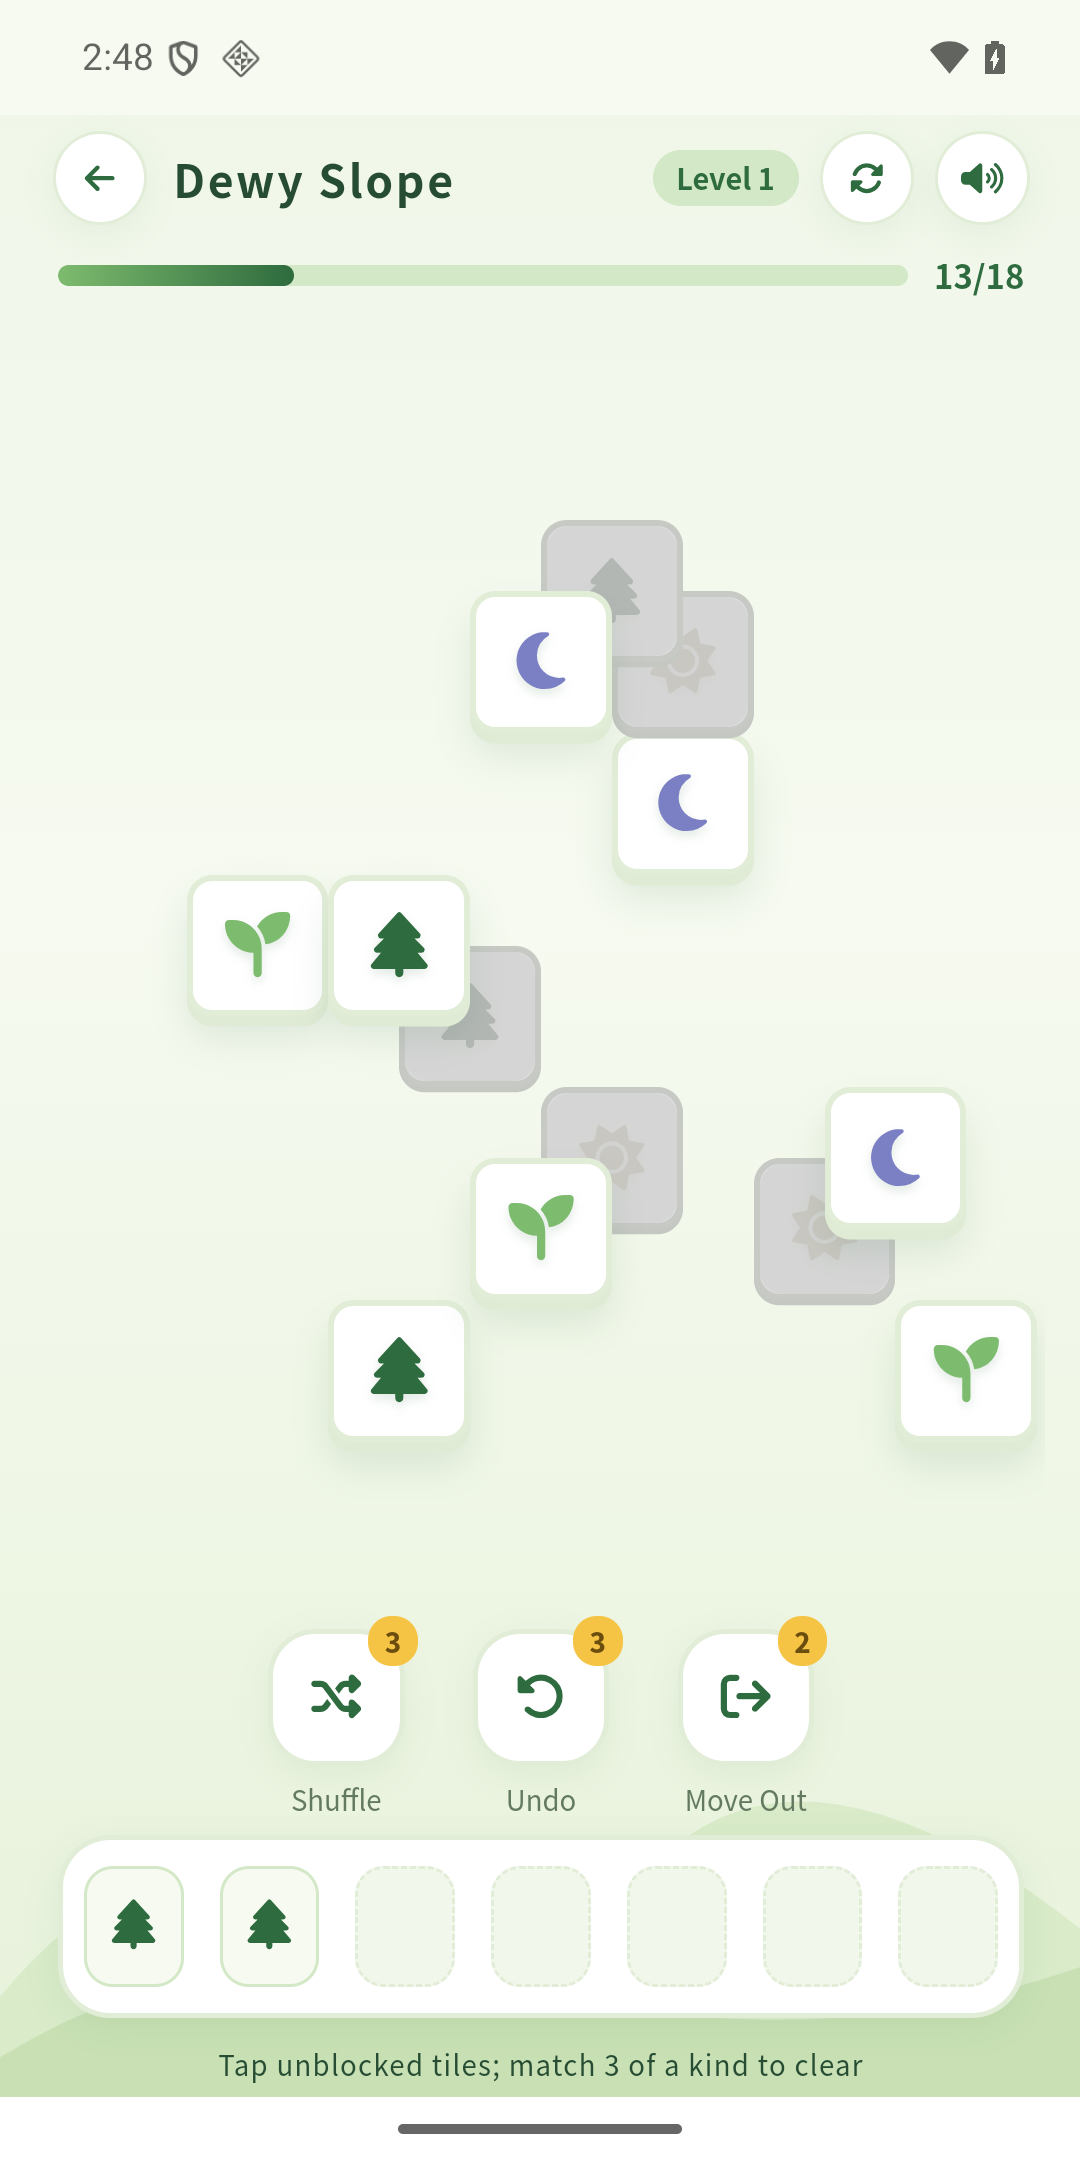
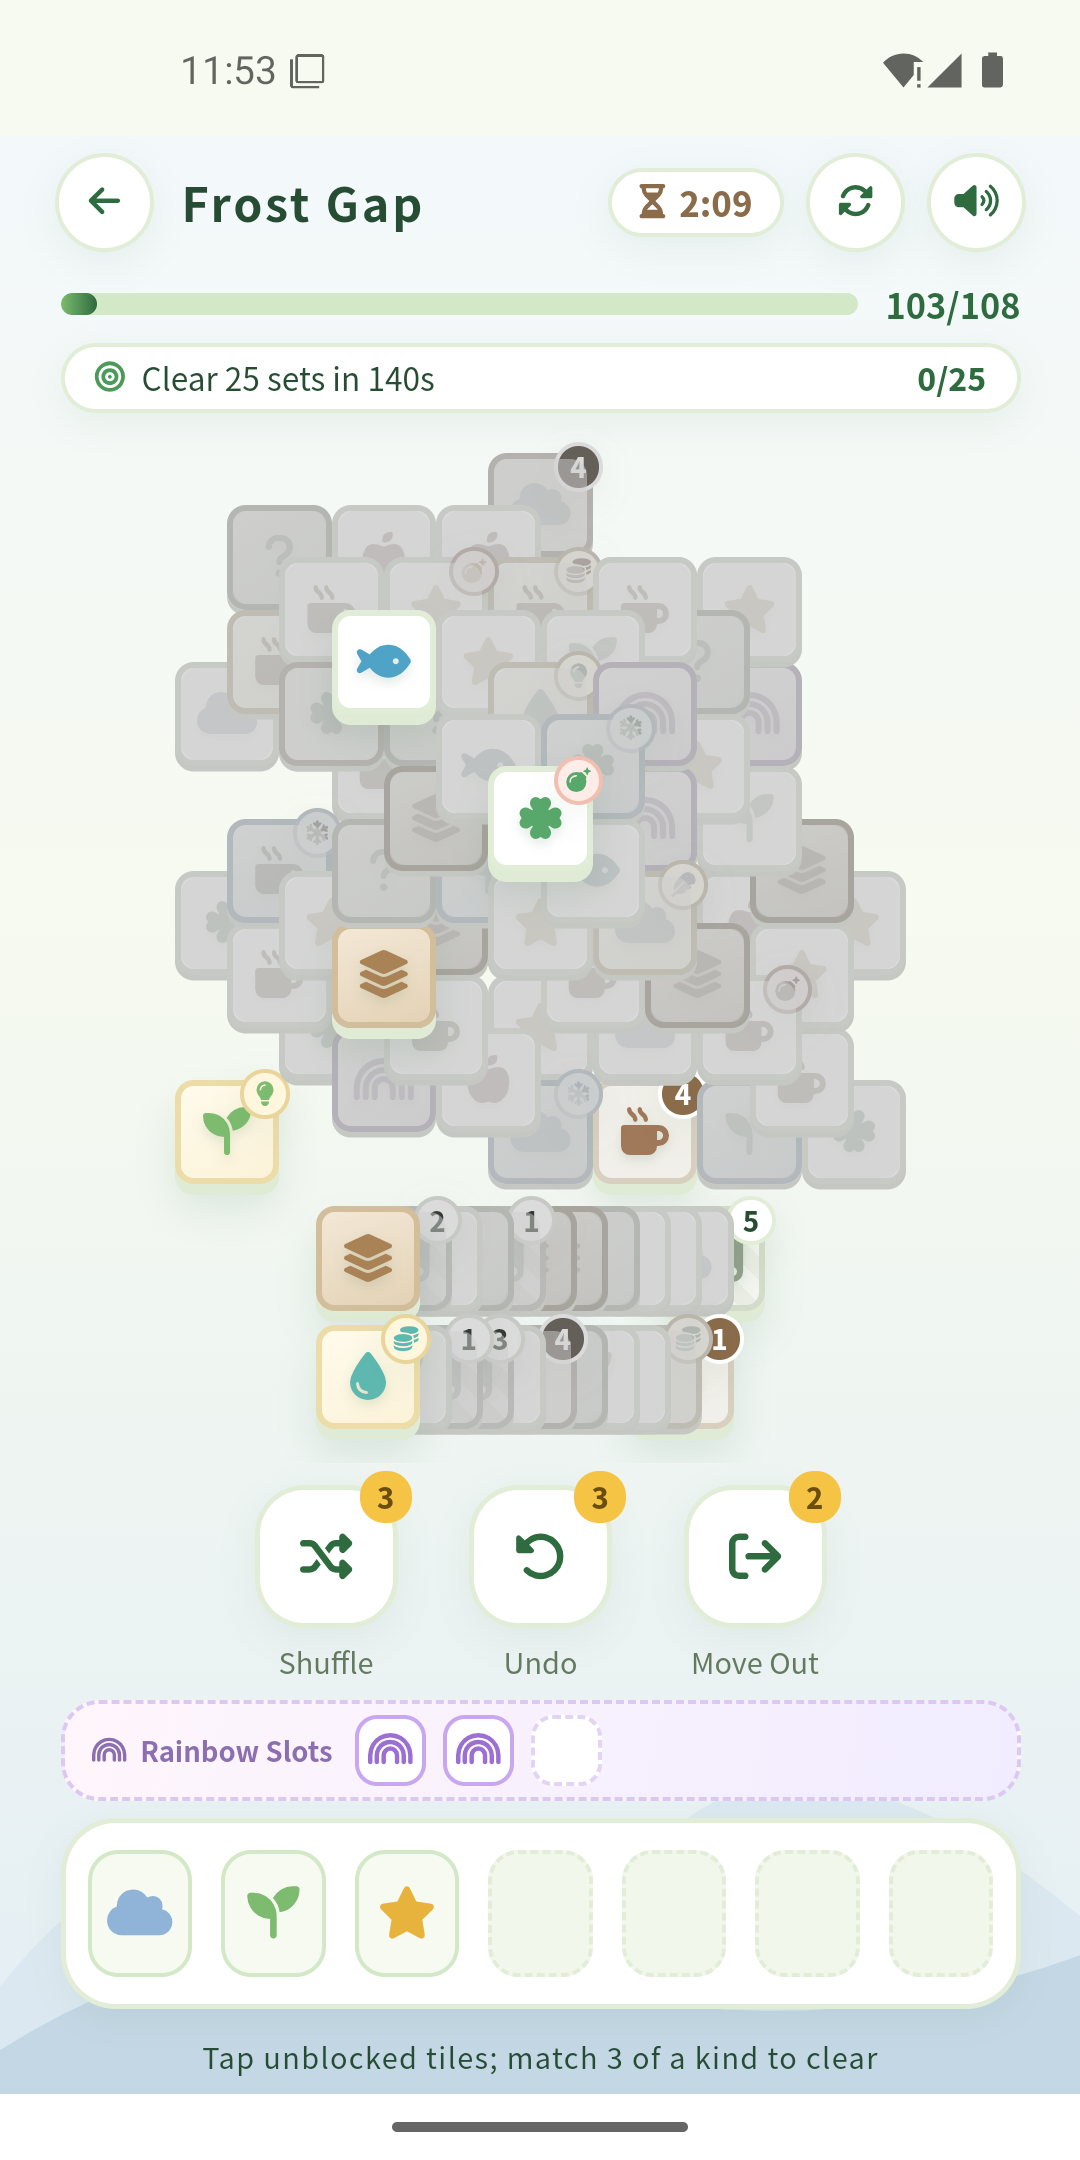
重拍截图：个人页跟上 i18n 修复，补两张有彩虹槽和特殊牌的局内图
个人页那两张是被上一批 i18n 改动作废的：旧图里明晃晃的「小羊牧歌」和
「语言」正是那两个 bug，而且语言胶囊还是旧的一行版式。中英各重拍一张。

局内图原来那张拍的是早期关卡，看不到这个游戏真正的东西。第 12 关之前
根本没有特殊牌（LEVELS 表里 12 条都没写 sp），十种齐全要到第 22 关往后。
所以重拍成第 24 关（限时·消够 25 组），并另加一张第 23 关（营救·把被压住
的小羊挖出来），中英各一份。彩虹槽、彩虹牌、双层牌、冰冻牌、锁链牌、
炸弹牌、谜之牌、金币牌、补给牌都在画面里。

正常打到 24 关要真打二十几关，走的是注入初始化脚本这条路：
shot_setup.js 只写初始存档，然后调用游戏自己的 startLevel 与 tap，
渲染与玩法逻辑一行没动，画面是真实的游戏画面。该脚本只进本地截图用的
debug APK，正式包不含它。

工具一并进仓库放在 store/shot-tools/：
  build_mac.sh    macOS 上的截图专用构建（aapt2 + javac + d8 + apksigner
                  + debug 签名）。和 android/build.ps1 不是一回事 —— 那条
                  链子出的是签正式密钥的 AAB，密钥不在 mac 上。
  shot_setup.js   注入用的初始化脚本

之所以进仓库而不是留在会话临时目录：图标与功能图的 store_art.py 当年就
留在 scratchpad 里，现在已经找不回来了，要改图标只能重写。

拍摄过程中踩到并记进 README 的两点：
  模拟器密度必须设 440。默认 480 下 1080x2160 只有 360dp 宽，版式整体
  大一圈，和早先那批截图对不上；440 才是 392.7dp。
  软件渲染扛不住这个 WebView：-gpu swiftshader_indirect 会让游戏 ANR，
  换 -gpu host 正常。

12 张截图已校验：全部 1080x2160，且两两互不相同（md5）。

diff --git a/store/shot-tools/shot_setup.js b/store/shot-tools/shot_setup.js
@@ -1,0 +1,49 @@
+/* 仅用于生成商店截图的初始化脚本。
+   只写初始存档并调用游戏自己的 startLevel / tap，不改任何游戏逻辑与渲染。
+   正式包不含此脚本。 */
+(function(){
+  function ready(){
+    return typeof startLevel==='function' && typeof go==='function'
+        && typeof save==='object' && typeof SPECIALS==='object' && typeof tap==='function';
+  }
+  function tappable(t){
+    return t && !t.removed && !t.inTray && !isCovered(t) && !lockedBy(t);
+  }
+  function freeRains(){
+    return G.tiles.filter(function(t){ return t.sp==='rain' && tappable(t); });
+  }
+  function fill(){
+    try{
+      /* 彩虹槽放 2 张：满 3 张会自动消除，就看不到槽里有牌了 */
+      freeRains().slice(0,2).forEach(function(t){ tap(t); });
+      /* 卡槽放 3 张花色互不相同的普通牌，凑成三连会被自动消掉 */
+      var seen={}, picks=[];
+      G.tiles.forEach(function(t){
+        if(picks.length>=3 || t.sp || !tappable(t) || seen[t.type]) return;
+        seen[t.type]=1; picks.push(t);
+      });
+      picks.forEach(function(t){ tap(t); });
+    }catch(e){ console.log('SHOT fill 失败', e); }
+  }
+  function boot(){
+    if(!ready()) return setTimeout(boot,80);
+    try{
+      save.lang    = '__LANG__';
+      save.seenSp  = Object.keys(SPECIALS);  /* 免得每种特殊牌第一次出现都弹教学框 */
+      save.guide   = 9;                      /* 跳过新手引导 */
+      var LV = __LV__;                      /* 22 关之后十种特殊牌齐全，且都有彩虹牌 */
+      save.level   = LV; save.cleared = LV-1;
+      save.coins   = 1280; save.wool = 64;
+      persist();
+      setLang(save.lang);
+      /* 开局时彩虹牌不一定有露在外面的，空着的彩虹槽说明不了玩法。
+         盘面每次都是重新构造的（且都保证有解），重开到有 2 张彩虹牌可点为止 */
+      var tries = 0;
+      do { startLevel(LV); tries++; } while (freeRains().length < 2 && tries < 60);
+      console.log('SHOT 重开 ' + tries + ' 次，露出彩虹牌 ' + freeRains().length + ' 张');
+      go('s-game');
+      setTimeout(fill, 500);
+    }catch(e){ console.log('SHOT boot 失败', e); }
+  }
+  boot();
+})();

diff --git a/store/README.md b/store/README.md
@@ -8,8 +8,33 @@
 |---|---|---|
 | `play-icon-512.png` | 应用图标 | 512×512，32 位 PNG 带 alpha |
 | `play-feature-1024x500.png` | 功能图 | 1024×500 |
-| `screenshots-en/` | 英文商店截图 | 5 张，1080×2160 |
-| `screenshots-zh/` | 简体中文商店截图 | 5 张，1080×2160 |
+| `screenshots-en/` | 英文商店截图 | 6 张，1080×2160 |
+| `screenshots-zh/` | 简体中文商店截图 | 6 张，1080×2160 |
+| `shot-tools/` | 拍局内截图用的构建与初始化脚本 | 见下 |
+
+## 局内截图是怎么拍的
+
+`phone-2-gameplay`（限时·消够 25 组）与 `phone-6-rescue`（营救·把被压住的小羊挖出来）
+拍的是第 24 与第 23 关：**第 12 关之前根本没有特殊牌**（`LEVELS` 表里 12 条都没写 `sp`），
+要十种特殊牌齐全得到第 22 关往后。正常打到那儿要真打二十几关，所以走了这条路：
+
+```sh
+store/shot-tools/build_mac.sh store/shot-tools/shot_setup.js   # 把初始化脚本注进 assets/index.html
+```
+
+`shot_setup.js` 只做两件事：写初始存档（关卡进度、金币、已见过的特殊牌），然后调用游戏
+自己的 `startLevel` 与 `tap`。渲染与玩法逻辑一行没动，画面是真实的游戏画面。
+**这个脚本只进本地截图用的 debug APK，正式包不含它。**
+
+两个细节：
+
+- 开局时彩虹牌不一定有露在外面的，空着的彩虹槽说明不了玩法。脚本会反复重开盘面
+  （每次都是重新构造的，且都保证有解），直到至少 2 张彩虹牌可点，再点进彩虹槽。
+  只放 2 张 —— 满 3 张会自动消除，槽里就又空了。
+- 卡槽里那 3 张特意挑花色互不相同的，凑成三连同样会被消掉。
+
+`build_mac.sh` 是 macOS 上的截图专用构建（aapt2 + javac + d8 + apksigner + debug 签名），
+和 `android/build.ps1` 不是一回事：那条链子出的是签正式密钥的 AAB，密钥不在这台机器上。
 
 ## 几个做的时候踩到的点
 
@@ -18,6 +43,13 @@
 
 **先试过 1080×1920（9:16），版式会出问题**：首页那个吸底的「开始游戏」按钮会盖住下面两张
 模式卡。2:1 的高度刚好够放下全部内容。
+
+**模拟器密度必须是 440，不是默认的 480。** 1080×2160 在 480dpi 下只有 360dp 宽，版式
+会整体大一圈，和早先那批截图对不上；440dpi 才是 392.7dp。用 `adb shell wm density 440`
+改，重启模拟器也还在。
+
+**软件渲染扛不住这个 WebView。** 用 `-gpu swiftshader_indirect` 起模拟器，游戏会 ANR
+（「Sheep Meadow isn't responding」）。换 `-gpu host` 就正常了。
 
 **两套语言各截一份。** 商店主列表用英文（应用名 Sheep Meadow），截图也得是英文的，
 否则文案和图对不上。中文那套留给 zh-CN 的本地化列表。英文版式文字更高，
@@ -63,4 +95,5 @@ Play 那边算法只要略有出入就会被拒，已经缩到 76。
 - Console 里那一整套问卷：数据安全表单、内容分级（IARC）、目标受众、广告声明、
   应用访问权限。素材和文案备齐不等于能提交，这些表一项都没做
 
-生成脚本：会话 scratchpad 里的 `store_art.py`。
+生成脚本：图标与功能图的 `store_art.py` 当时留在会话 scratchpad 里，没进仓库，现在已经找不回来了 ——
+要改图标或功能图得重写。截图那套工具吸取了这个教训，放在 `shot-tools/`。
